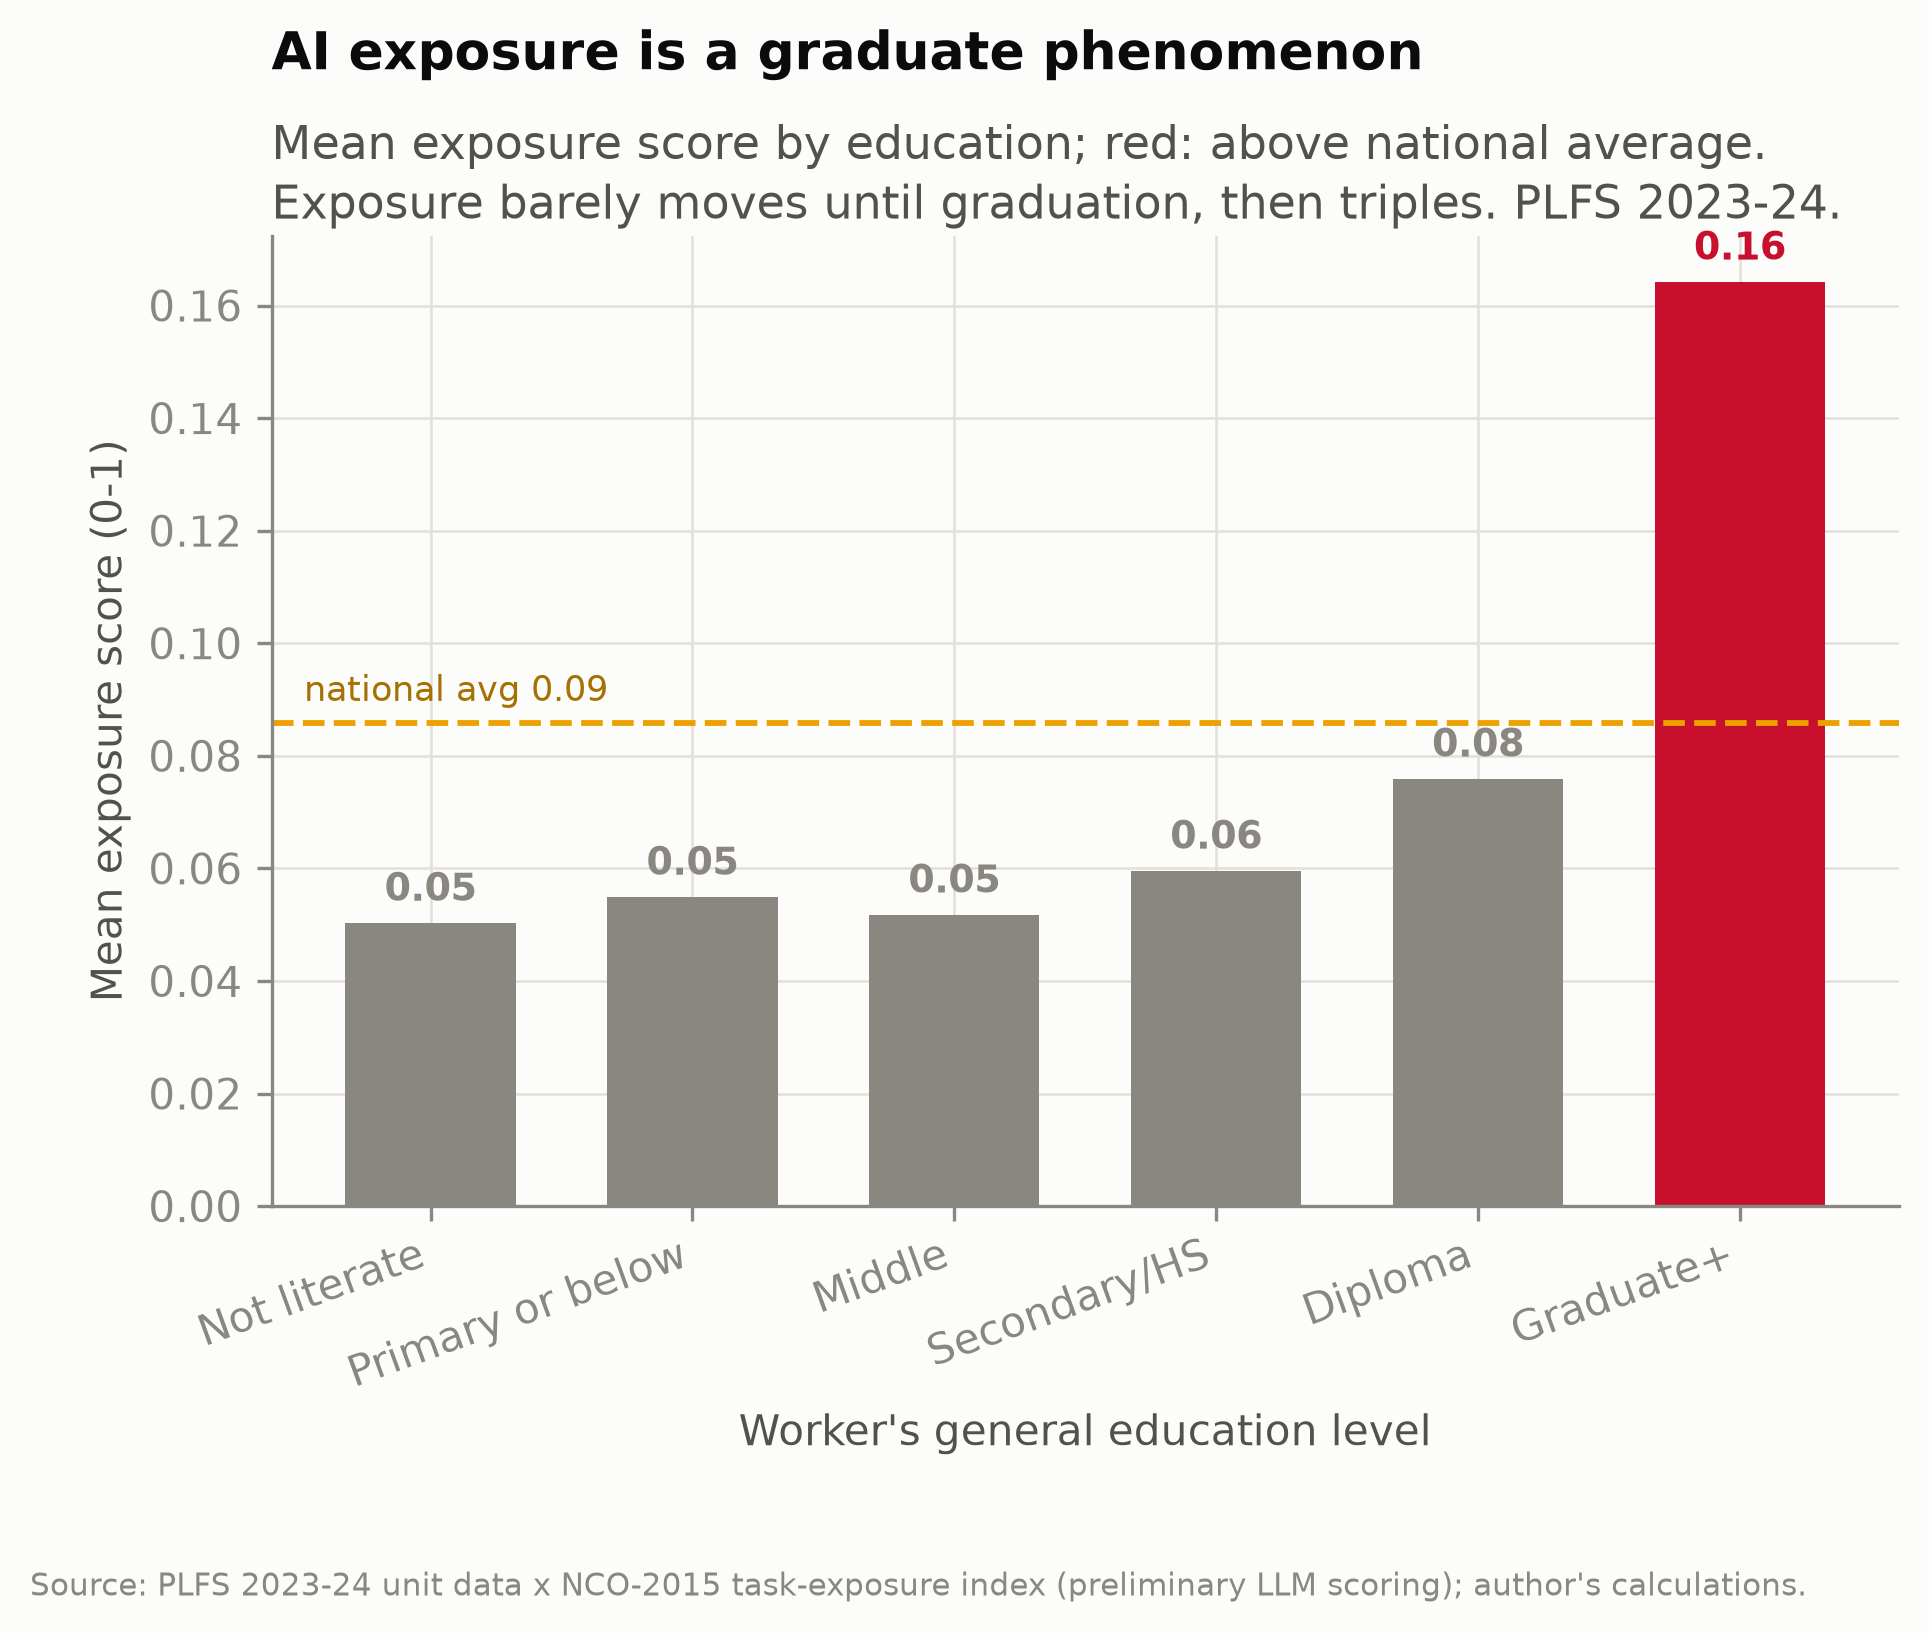
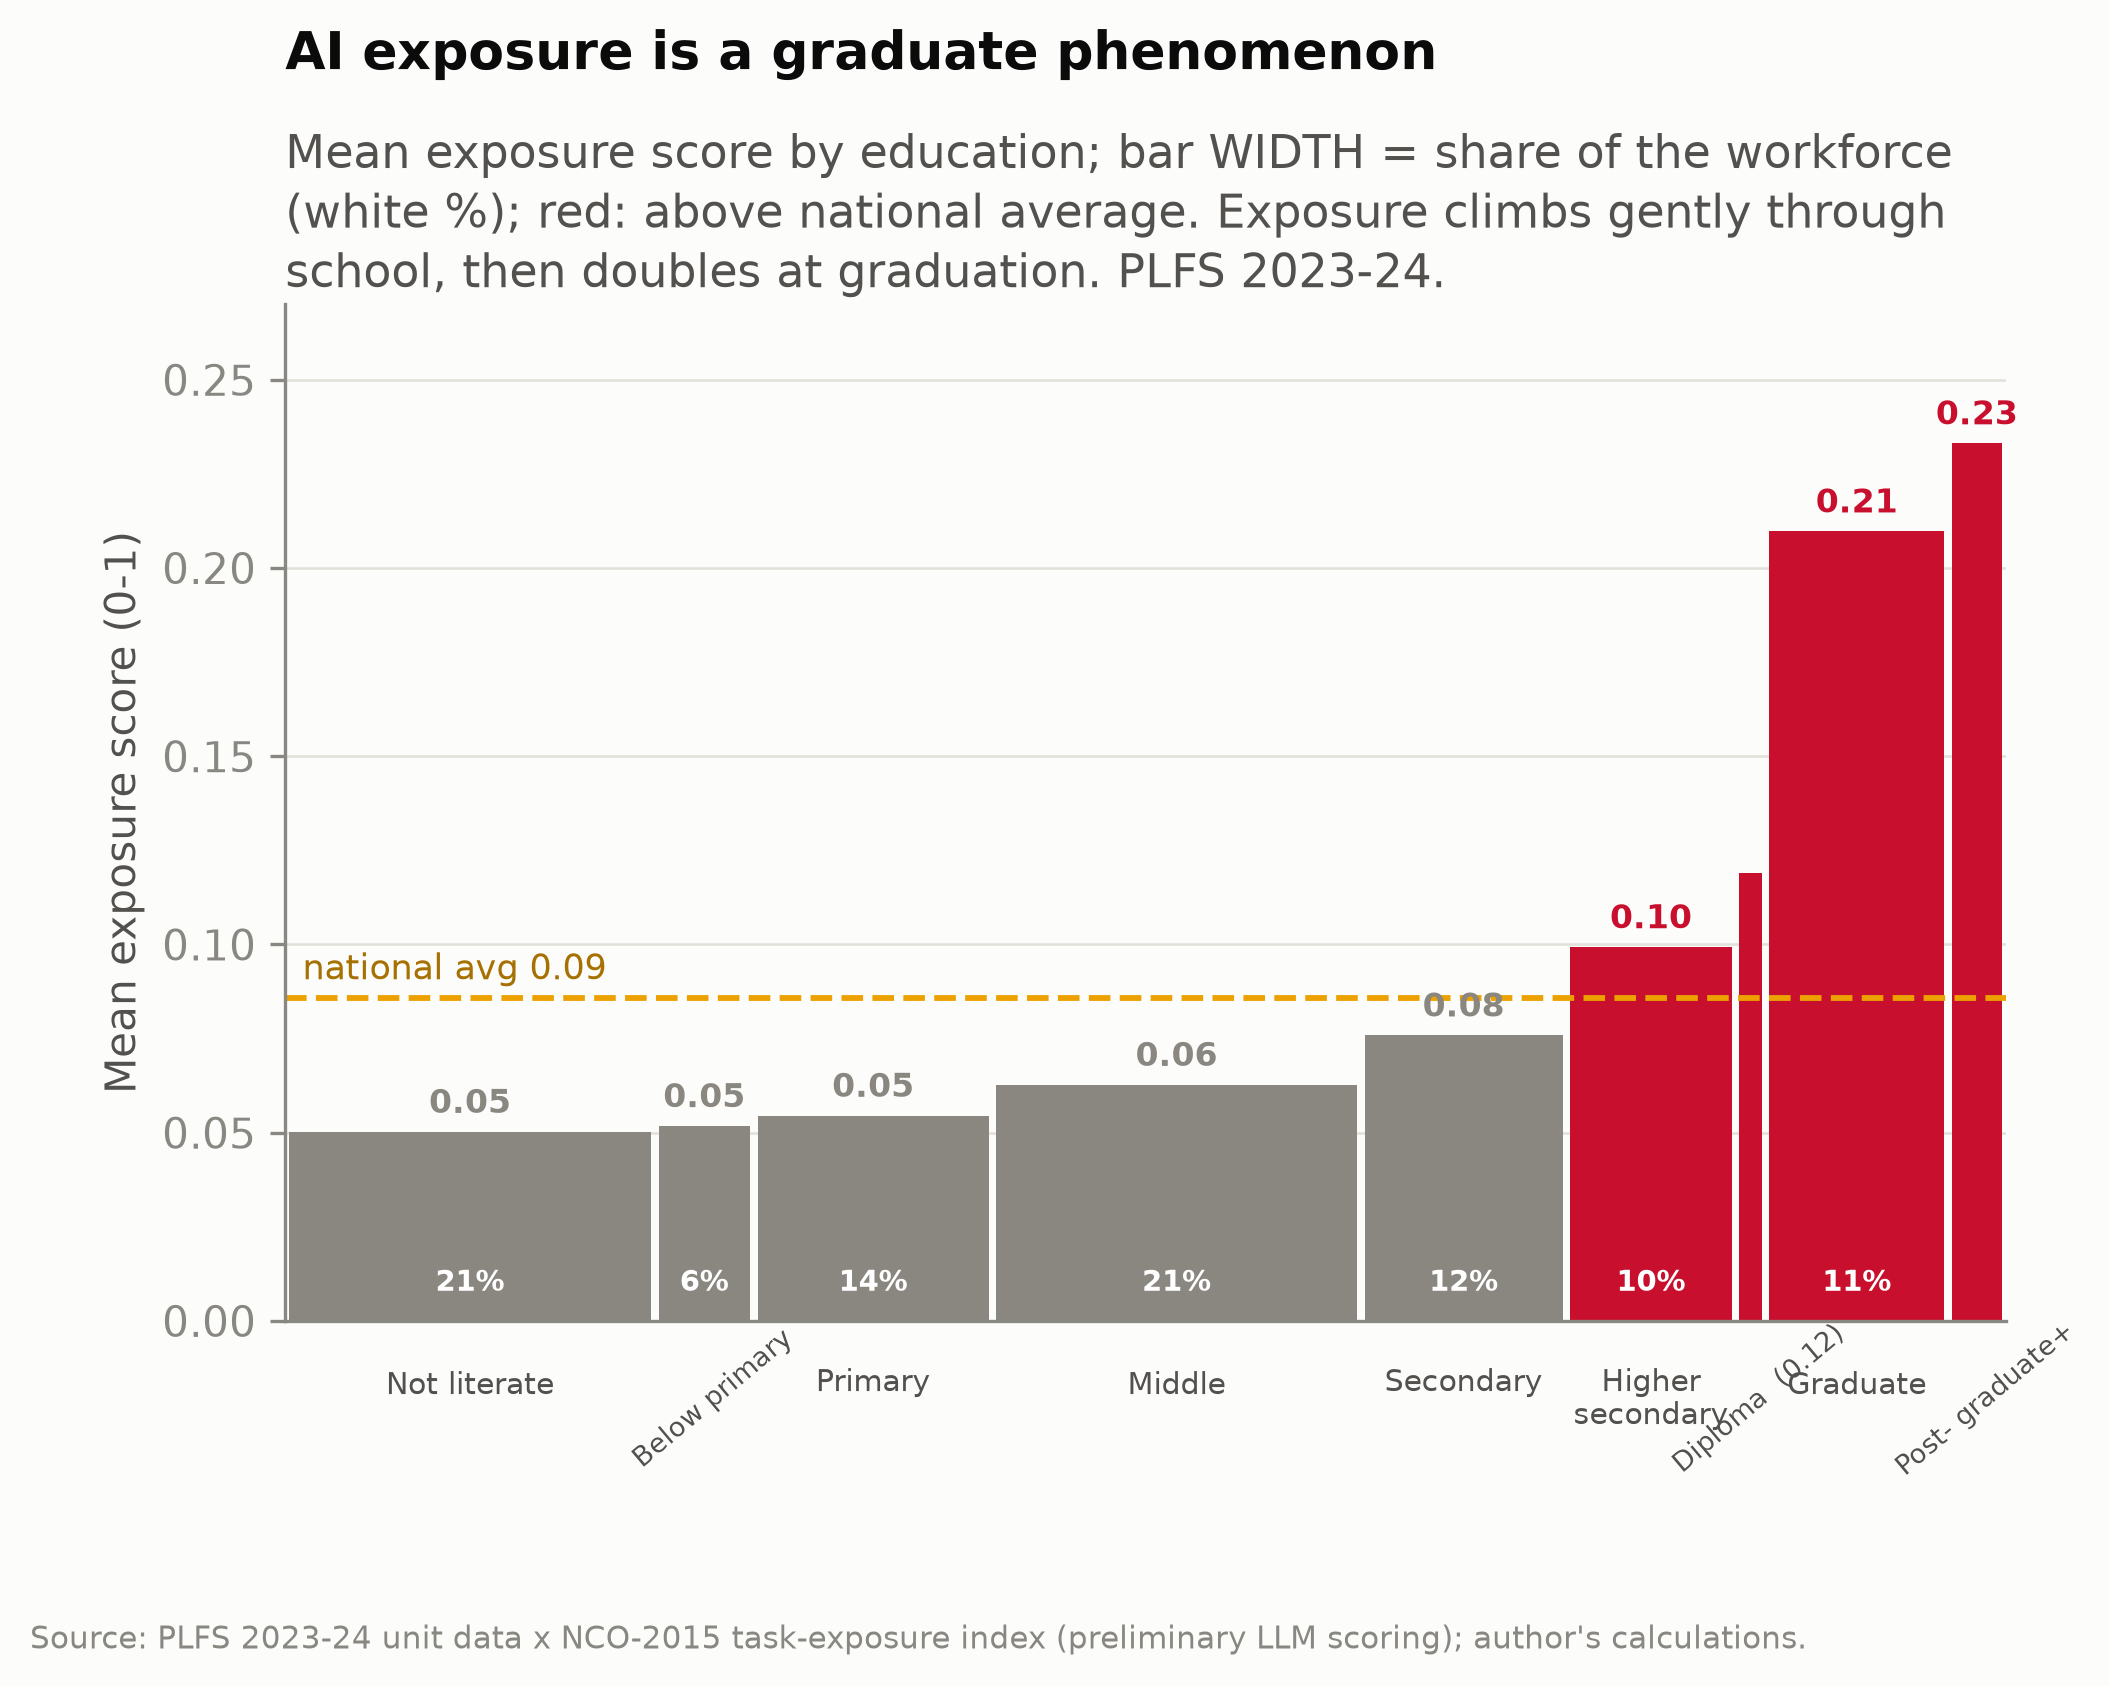
fix: PLFS education bucket coding corrected per manual C-19 — education chart rebuilt as width-encoded ladder with graduate/postgraduate split; downstream docs and artifact corrected

diff --git a/src/insights/insight_atlas_claims.py b/src/insights/insight_atlas_claims.py
@@ -87,28 +87,55 @@ def chart_money(df: pl.DataFrame) -> None:
 
 
 def chart_education(df: pl.DataFrame) -> None:
-    edu = [("Not literate", [1]), ("Primary or below", [2, 3, 4]), ("Middle", [5]),
-           ("Secondary/HS", [6, 7]), ("Diploma", [8]), ("Graduate+", [10, 11, 12, 13])]
-    means = [(_wmean(df.filter(pl.col("edu_code").is_in(v)))) for _, v in edu]
-    nat = _wmean(df)
-    fig, ax = plt.subplots(figsize=(7, 4.2))
-    colors = [SB_RED if m > nat else SB_GREY for m in means]
-    ax.bar([n for n, _ in edu], means, color=colors, width=0.65)
+    # PLFS manual C-19 codes: 01 not literate; 02-04 literate w/o schooling;
+    # 05 below primary; 06 primary; 07 middle; 08 secondary; 10 higher
+    # secondary; 11 diploma; 12 graduate; 13 postgraduate+.
+    edu = [("Not literate", [1]), ("Below\nprimary", [2, 3, 4, 5]),
+           ("Primary", [6]), ("Middle", [7]), ("Secondary", [8]),
+           ("Higher\nsecondary", [10]), ("Diploma", [11]),
+           ("Graduate", [12]), ("Post-\ngraduate+", [13])]
+    W = float(df["weight"].sum())
+    rows = []
+    for n, codes in edu:
+        s = df.filter(pl.col("edu_code").is_in(codes))
+        w = float(s["weight"].sum())
+        rows.append((n, w / W, float((s["beta"] * s["weight"]).sum() / w)))
+    nat = float((df["beta"] * df["weight"]).sum() / W)
+    fig, ax = plt.subplots(figsize=(7.4, 4.4))
+    x = 0.0
+    for n, share, e in rows:
+        w = share * 100
+        color = SB_RED if e > nat else SB_GREY
+        ax.bar(x + w / 2, e, width=w - 0.45, color=color)
+        if w > 3:
+            ax.text(x + w / 2, e + 0.005, f"{e:.2f}", ha="center", fontsize=8,
+                    fontweight="bold", color=color)
+        rot = 0 if w > 9 else 90
+        ax.text(x + w / 2, -0.012, n, ha="center", va="top", fontsize=7.2,
+                color="#52514e", rotation=rot,
+                linespacing=1.1) if rot == 0 else ax.text(
+            x + w / 2, -0.018,
+            n.replace("\n", " ") + (f"  ({e:.2f})" if w <= 3 else ""),
+            ha="center", va="top", fontsize=6.4, color="#52514e",
+            rotation=40, rotation_mode="anchor")
+        if w > 5:
+            ax.text(x + w / 2, 0.008, f"{share:.0%}", ha="center", fontsize=7,
+                    color="white", fontweight="bold")
+        x += w
     ax.axhline(nat, color=SB_GOLD, lw=1.4, ls="--")
-    ax.text(0.02, nat + 0.004, f"national avg {nat:.2f}", fontsize=8.5,
-            color="#a67102", ha="left", transform=ax.get_yaxis_transform())
-    for i, m in enumerate(means):
-        ax.text(i, m + 0.004, f"{m:.2f}", ha="center", fontsize=9,
-                fontweight="bold", color=colors[i])
+    ax.text(1, nat + 0.005, f"national avg {nat:.2f}", fontsize=8.5, color="#a67102")
+    ax.set_xlim(0, 100)
+    ax.set_ylim(0, 0.27)
+    ax.set_xticks([])
     head_sub(ax, "AI exposure is a graduate phenomenon\n"
-                 "Mean exposure score by education; red: above national average.\n"
-                 "Exposure barely moves until graduation, then triples. PLFS 2023-24.")
+                 "Mean exposure score by education; bar WIDTH = share of the workforce\n"
+                 "(white %); red: above national average. Exposure climbs gently through\n"
+                 "school, then doubles at graduation. PLFS 2023-24.")
     ax.set_ylabel("Mean exposure score (0-1)")
-    ax.set_xlabel("Worker's general education level")
-    plt.setp(ax.get_xticklabels(), rotation=20, ha="right")
-    add_source(fig, DATASET, y=-0.18)
+    add_source(fig, DATASET, y=-0.12)
     _save(fig, "insight_education",
-          "means: " + ", ".join(f"{n}={m:.3f}" for (n, _), m in zip(edu, means)) + f"; nat={nat:.3f}")
+          "; ".join(f"{n.replace(chr(10),' ')}: share={s:.3f}, E={e:.3f}" for n, s, e in rows)
+          + f"; nat={nat:.3f}; CORRECTED bucket coding per manual C-19 (2026-08-28)")
 
 
 def chart_gender(df: pl.DataFrame) -> None:

diff --git a/src/analysis/typology.py b/src/analysis/typology.py
@@ -4,7 +4,7 @@ composition features (PRELIMINARY per D6).
 Features per group (employment-weighted within group, PLFS 2023-24):
     alpha        chat-only exposure (E1 task share)
     e2_share     tooling-dependent exposure (zeta - alpha)
-    grad_share   share of workers with graduate+ education
+    grad_share   share with post-secondary education (HS & above; PLFS codes 10-13)
     female_share, urban_share, young_share (18-29)
     log_median_earn  log median monthly earnings (earners only)
 

diff --git a/outputs/substack/provenance.md b/outputs/substack/provenance.md
@@ -8,10 +8,6 @@ Source: PLFS 2023-24 unit data x NCO-2015 task-exposure index (preliminary LLM s
 headcount 1.9%, wage bill 7.1% (beta>=0.5)
 Source: PLFS 2023-24 unit data x NCO-2015 task-exposure index (preliminary LLM scoring).
 
-### insight_education (2026-08-27)
-means: Not literate=0.050, Primary or below=0.055, Middle=0.052, Secondary/HS=0.060, Diploma=0.076, Graduate+=0.164; nat=0.086
-Source: PLFS 2023-24 unit data x NCO-2015 task-exposure index (preliminary LLM scoring).
-
 ### insight_gender_flip (2026-08-27)
 all M=0.091 F=0.073; organised M=0.248 F=0.259
 Source: PLFS 2023-24 unit data x NCO-2015 task-exposure index (preliminary LLM scoring).
@@ -55,3 +51,64 @@ Source: PLFS 2023-24 unit data x NCO-2015 task-exposure index (preliminary LLM s
 ### insight_gva_exposure (2026-08-27)
 Agriculture & allied: E=0.055, GVA share 0.178; Mining & quarrying: E=0.068, GVA share 0.019; Manufacturing: E=0.058, GVA share 0.143; Utilities: E=0.102, GVA share 0.028; Construction: E=0.032, GVA share 0.088; Trade, hotels, transport, comms: E=0.129, GVA share 0.176; Financial, real estate, prof. svcs: E=0.358, GVA share 0.228; Public admin, defence, other svcs: E=0.116, GVA share 0.140; GVA-weighted mean E=0.1455; share of GVA in above-avg-exposure activities=0.5720
 Source: PLFS 2023-24 x NCO-2015 exposure index (preliminary LLM scoring); GVA: NAS Statement 4A, FY2023-24 FRE, current prices (MoSPI).
+### insight_exposure_rare (2026-08-28)
+bin shares %: 0-.05=47.5, .05-.10=32.2, .10-.20=11.7, .20-.30=3.6, .30-.40=2.2, .40-.50=0.8, .50+=1.9
+Source: PLFS 2023-24 unit data x NCO-2015 task-exposure index (preliminary LLM scoring).
+
+### insight_wagebill (2026-08-28)
+headcount 1.9%, wage bill 7.1% (beta>=0.5)
+Source: PLFS 2023-24 unit data x NCO-2015 task-exposure index (preliminary LLM scoring).
+
+### insight_gender_flip (2026-08-28)
+all M=0.091 F=0.073; organised M=0.248 F=0.259
+Source: PLFS 2023-24 unit data x NCO-2015 task-exposure index (preliminary LLM scoring).
+
+### insight_entry_rung (2026-08-28)
+hi-share % by band: 20-24=17.7, 25-29=25.0, 30-34=17.0, 35-39=11.4, 40-44=10.7, 45-49=7.2, 50-54=7.7, 55-59=4.7; wc avg=13.4
+Source: PLFS 2023-24 unit data x NCO-2015 task-exposure index (preliminary LLM scoring).
+
+### insight_states (2026-08-28)
+Delhi=0.143; Kerala=0.120; Haryana=0.110; Telangana=0.106; Maharashtra=0.101; Karnataka=0.101; Tamil Nadu=0.093; Uttarakhand=0.085; Odisha=0.074; Madhya Pradesh=0.073; Chhattisgarh=0.072; Bihar=0.067; nat=0.086
+Source: PLFS 2023-24 unit data x NCO-2015 task-exposure index (preliminary LLM scoring).
+### insight_exposure_rare (2026-08-28)
+bin shares %: 0-.05=47.5, .05-.10=32.2, .10-.20=11.7, .20-.30=3.6, .30-.40=2.2, .40-.50=0.8, .50+=1.9
+Source: PLFS 2023-24 unit data x NCO-2015 task-exposure index (preliminary LLM scoring).
+
+### insight_wagebill (2026-08-28)
+headcount 1.9%, wage bill 7.1% (beta>=0.5)
+Source: PLFS 2023-24 unit data x NCO-2015 task-exposure index (preliminary LLM scoring).
+
+### insight_gender_flip (2026-08-28)
+all M=0.091 F=0.073; organised M=0.248 F=0.259
+Source: PLFS 2023-24 unit data x NCO-2015 task-exposure index (preliminary LLM scoring).
+
+### insight_entry_rung (2026-08-28)
+hi-share % by band: 20-24=17.7, 25-29=25.0, 30-34=17.0, 35-39=11.4, 40-44=10.7, 45-49=7.2, 50-54=7.7, 55-59=4.7; wc avg=13.4
+Source: PLFS 2023-24 unit data x NCO-2015 task-exposure index (preliminary LLM scoring).
+
+### insight_states (2026-08-28)
+Delhi=0.143; Kerala=0.120; Haryana=0.110; Telangana=0.106; Maharashtra=0.101; Karnataka=0.101; Tamil Nadu=0.093; Uttarakhand=0.085; Odisha=0.074; Madhya Pradesh=0.073; Chhattisgarh=0.072; Bihar=0.067; nat=0.086
+Source: PLFS 2023-24 unit data x NCO-2015 task-exposure index (preliminary LLM scoring).
+### insight_exposure_rare (2026-08-28)
+bin shares %: 0-.05=47.5, .05-.10=32.2, .10-.20=11.7, .20-.30=3.6, .30-.40=2.2, .40-.50=0.8, .50+=1.9
+Source: PLFS 2023-24 unit data x NCO-2015 task-exposure index (preliminary LLM scoring).
+
+### insight_wagebill (2026-08-28)
+headcount 1.9%, wage bill 7.1% (beta>=0.5)
+Source: PLFS 2023-24 unit data x NCO-2015 task-exposure index (preliminary LLM scoring).
+
+### insight_education (2026-08-28)
+Not literate: share=0.215, E=0.050; Below primary: share=0.058, E=0.052; Primary: share=0.139, E=0.055; Middle: share=0.214, E=0.063; Secondary: share=0.120, E=0.076; Higher secondary: share=0.098, E=0.099; Diploma: share=0.018, E=0.119; Graduate: share=0.106, E=0.210; Post- graduate+: share=0.034, E=0.233; nat=0.086; CORRECTED bucket coding per manual C-19 (2026-08-28)
+Source: PLFS 2023-24 unit data x NCO-2015 task-exposure index (preliminary LLM scoring).
+
+### insight_gender_flip (2026-08-28)
+all M=0.091 F=0.073; organised M=0.248 F=0.259
+Source: PLFS 2023-24 unit data x NCO-2015 task-exposure index (preliminary LLM scoring).
+
+### insight_entry_rung (2026-08-28)
+hi-share % by band: 20-24=17.7, 25-29=25.0, 30-34=17.0, 35-39=11.4, 40-44=10.7, 45-49=7.2, 50-54=7.7, 55-59=4.7; wc avg=13.4
+Source: PLFS 2023-24 unit data x NCO-2015 task-exposure index (preliminary LLM scoring).
+
+### insight_states (2026-08-28)
+Delhi=0.143; Kerala=0.120; Haryana=0.110; Telangana=0.106; Maharashtra=0.101; Karnataka=0.101; Tamil Nadu=0.093; Uttarakhand=0.085; Odisha=0.074; Madhya Pradesh=0.073; Chhattisgarh=0.072; Bihar=0.067; nat=0.086
+Source: PLFS 2023-24 unit data x NCO-2015 task-exposure index (preliminary LLM scoring).

diff --git a/paper/whitepaper/AI-Exposure-Atlas-WhitePaper.md b/paper/whitepaper/AI-Exposure-Atlas-WhitePaper.md
@@ -6,7 +6,7 @@ project: ai-exposure-atlas
 status: draft
 tags: [project/ai-exposure-atlas, type/whitepaper, status/draft]
 ---
-
+	
 # The AI Exposure Atlas
 ### Who in India's workforce is actually exposed to generative AI — measured on India's own terms
 
@@ -142,13 +142,15 @@ software developers (3.9M at 0.74), finance professionals (2.1M at 0.63),
 numerical clerks, ICT technicians…*
 
 ![[insight_education.png]]
-*Exposure barely moves from illiterate (0.05) through higher-secondary (0.06),
-then triples at graduation (0.16). AI exposure is a graduate phenomenon.*
+*Exposure climbs gently from illiterate (0.05) to higher secondary (0.10),
+then doubles at graduation (0.21; postgraduates 0.23). Bar widths show each
+group's share of the workforce. (Bucket coding corrected Aug 28 per PLFS
+manual C-19.)*
 
 > [!quote] Callback — *K-Shaped Growth* (Jul 2026)
 > The aspiration framing completes the K-shape link: a degree is the ticket
 > from the lower arm toward the upper one — and the education gradient shows
-> exposure switches on at exactly that ticket booth. India's exposure ladder
+> exposure doubling at exactly that ticket booth. India's exposure ladder
 > IS its aspiration ladder.
 
 ## 6. The gender flip  *(~250 words)*
@@ -220,7 +222,7 @@ PRELIMINARY):*
 | Chat exposure (α) | **0.52** | 0.17 | 0.13 | 0.05 | 0.05 |
 | Tooling exposure (E2 share) | 0.16 | **0.38** | 0.07 | 0.01 | 0.03 |
 | Workers in high-exposure jobs (β ≥ 0.5) | **65%** | 18% | 0% | 0% | 0% |
-| Graduate share | **96%** | 88% | 74% | 14% | 22% |
+| Post-secondary share (HS & above) | **96%** | 88% | 74% | 14% | 22% |
 | Female share | 20% | 24% | 22% | **43%** | 10% |
 | Urban share | **84%** | 61% | 60% | 12% | 37% |
 | Young (18–29) share | **39%** | 33% | 17% | 17% | 28% |

diff --git a/paper/whitepaper/METHODOLOGY.md b/paper/whitepaper/METHODOLOGY.md
@@ -132,7 +132,9 @@ high-exposure (β ≥ 0.5) occupations.
   security benefit (PLFS codes 1–7; code 8 = not eligible). It is a proxy,
   defined for wage workers, not the full formality definition.
 - *High exposure* = occupation group with β ≥ 0.5.
-- Education buckets follow PLFS general-education codes; states use census
+- Education buckets follow PLFS general-education codes (manual C-19: 08 =
+  secondary, 10 = higher secondary, 11 = diploma, 12 = graduate, 13 =
+  postgraduate; an earlier draft mis-bucketed these — corrected Aug 28); states use census
   codes; age bands are 5-year.
 
 ## Step 5 — The entry-rung analysis (EPFO)
